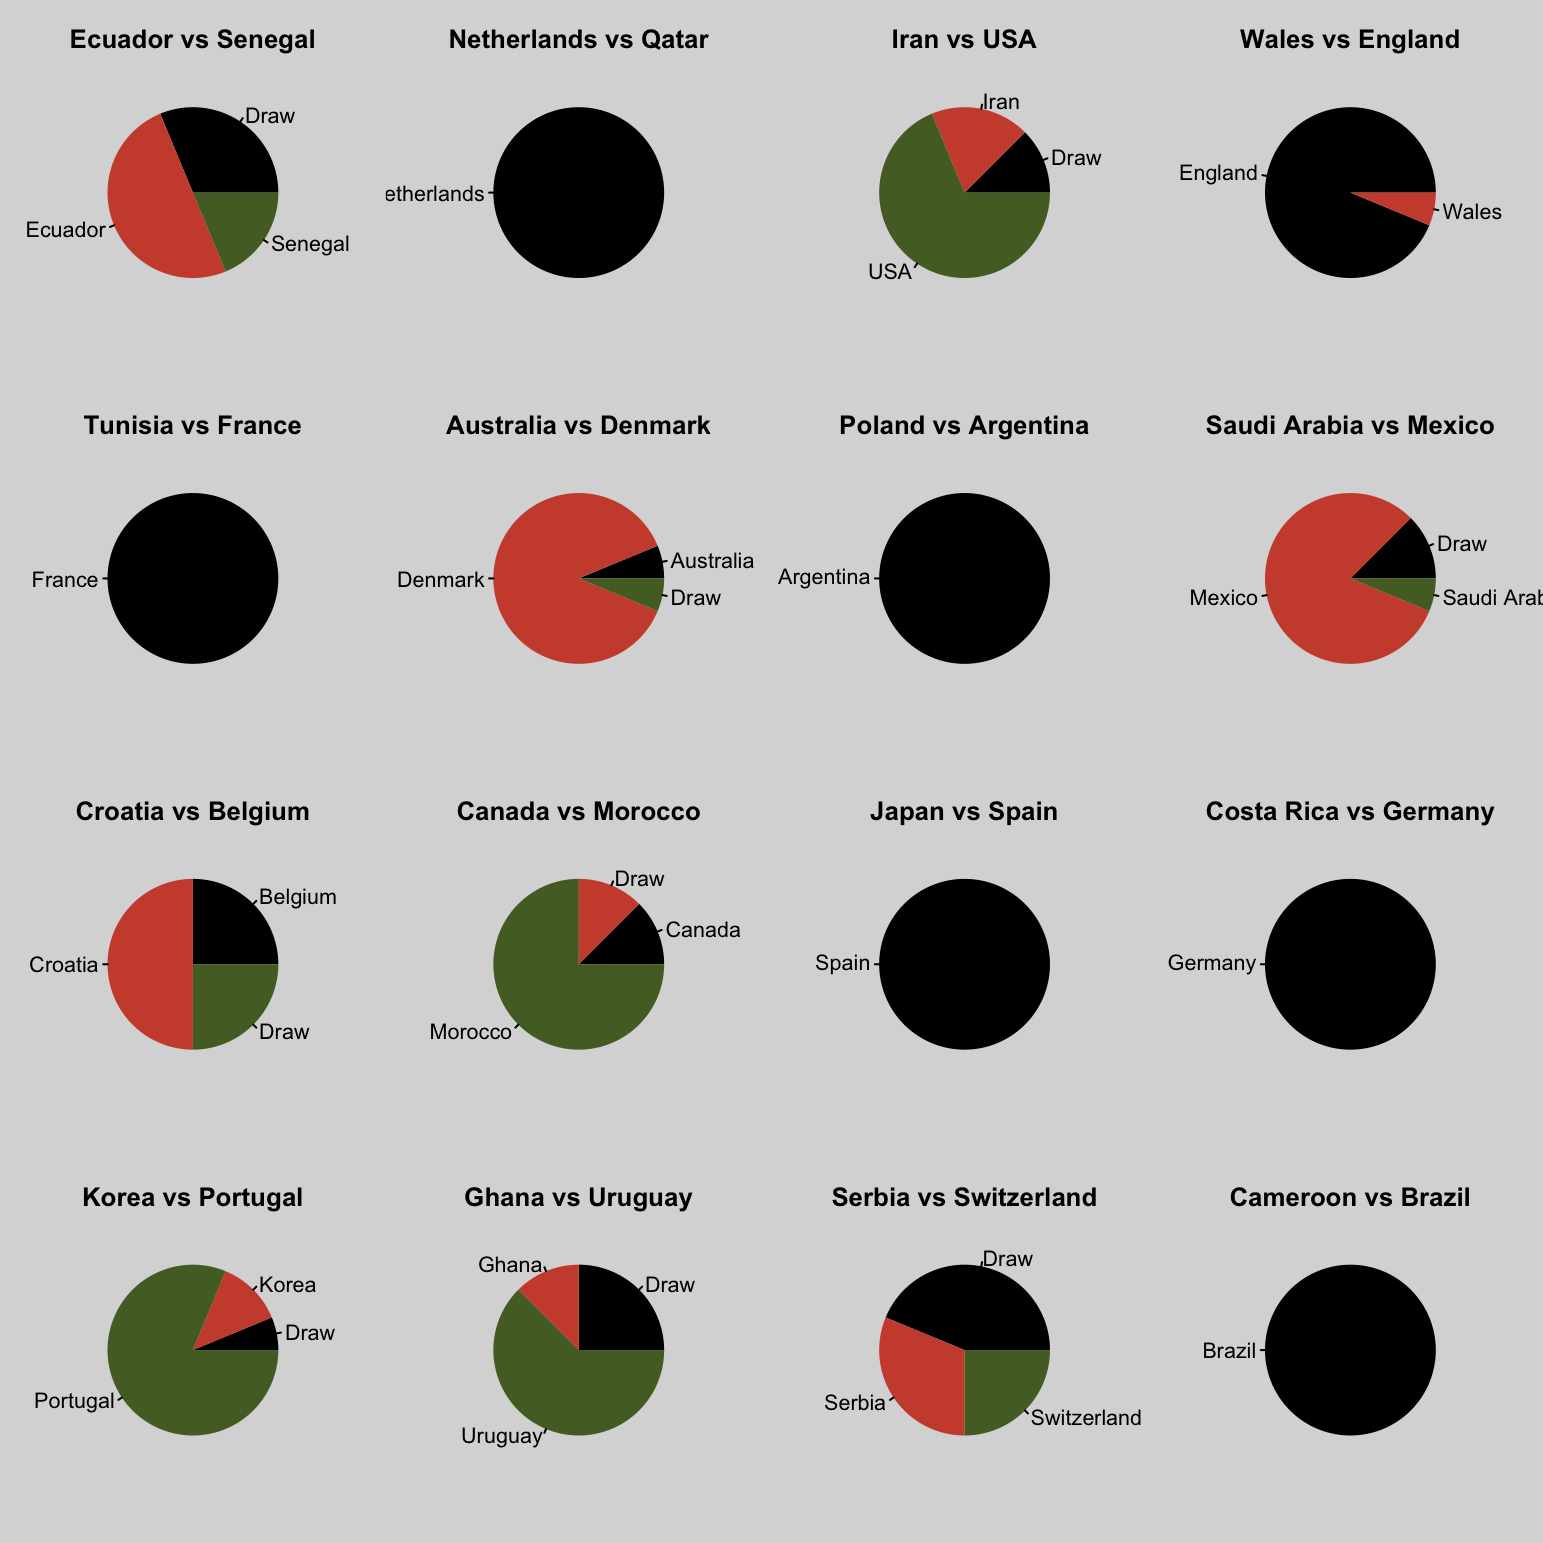
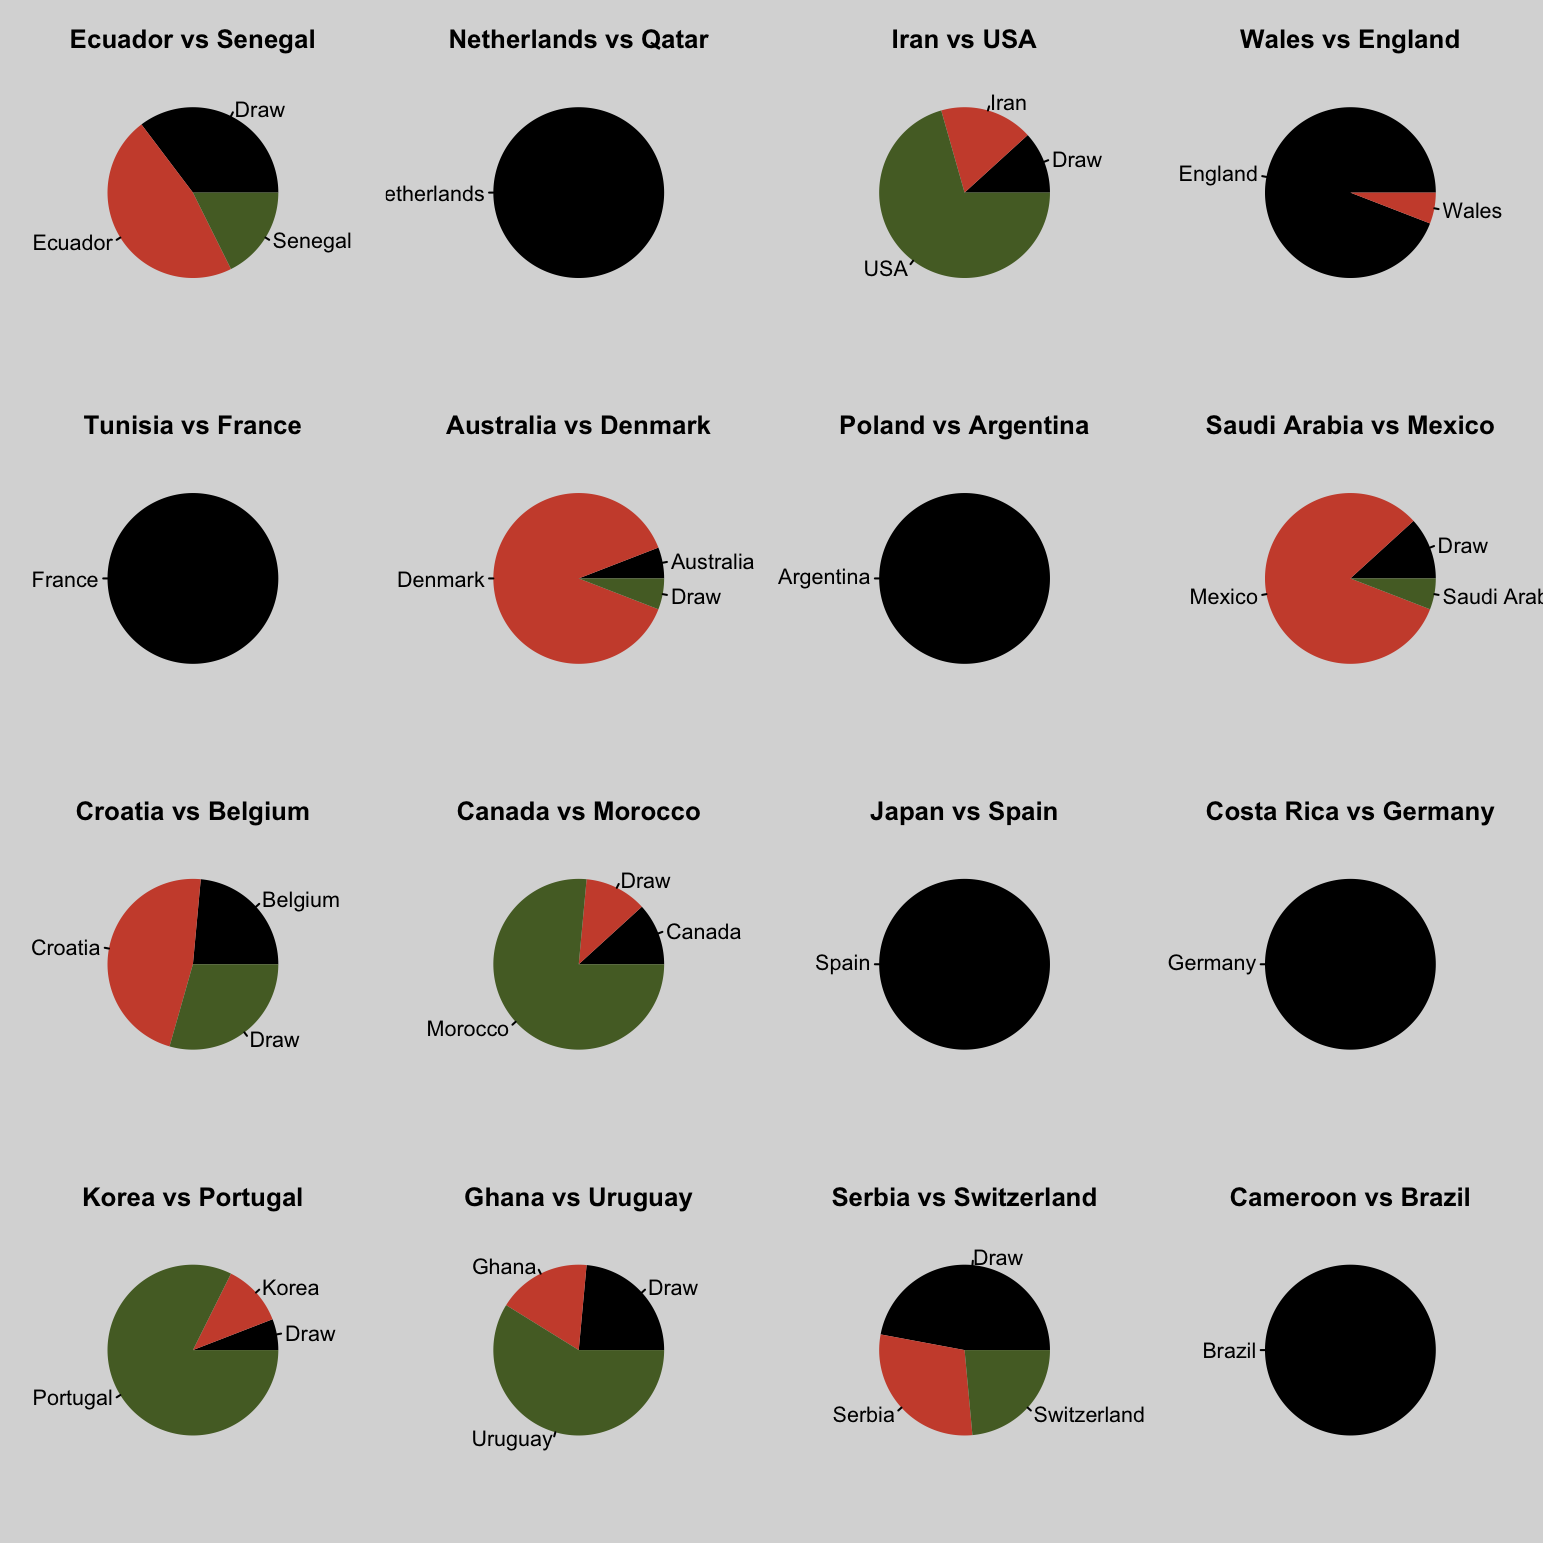
automatic README update

diff --git a/README.md b/README.md
@@ -13,7 +13,7 @@ Este es el repositorio de la quiniela Qatar 2022. Aqui se publicarán las picks 
 
 
 
-Última actualización: Tue 29 Nov 2022 00:07:14 EST.
+Última actualización: Tue 29 Nov 2022 00:57:40 EST.
 
 
 # **Puntuaciones**
@@ -58,6 +58,13 @@ Este es el repositorio de la quiniela Qatar 2022. Aqui se publicarán las picks 
 [Resultados de la Jornada 2](GS2_complete_scores.csv)
  
 --- 
+# **Fase de Grupos**
+
+![](flags/matches/matches.gif)
+
+---
+
+
 
  ## <u>**Picks de la Jornada 3**</u>
  
@@ -69,6 +76,7 @@ Este es el repositorio de la quiniela Qatar 2022. Aqui se publicarán las picks 
 | 003                 | Habib Echanove                | Ecuador            | Netherlands          | Iran        | England          | France            | Denmark              | Argentina           | Mexico                 | Draw               | Morocco           | Spain          | Germany               | Portugal          | Draw             | Draw                  | Brazil             |
 | 005                 | Isra                          | Ecuador            | Netherlands          | USA         | England          | France            | Denmark              | Argentina           | Mexico                 | Croatia            | Morocco           | Spain          | Germany               | Draw              | Ghana            | Switzerland           | Brazil             |
 | 006                 | Juan Carlos Avendaño Aguilar | Ecuador            | Netherlands          | USA         | England          | France            | Denmark              | Argentina           | Mexico                 | Belgium            | Canada            | Spain          | Germany               | Portugal          | Uruguay          | Switzerland           | Brazil             |
+| 007                 | Claudio                       | Draw               | Netherlands          | USA         | England          | France            | Denmark              | Argentina           | Mexico                 | Draw               | Morocco           | Spain          | Germany               | Portugal          | Ghana            | Draw                  | Brazil             |
 | 008                 | Héctor Zepeda Reyes          | Senegal            | Netherlands          | USA         | England          | France            | Denmark              | Argentina           | Mexico                 | Croatia            | Morocco           | Spain          | Germany               | Portugal          | Ghana            | Serbia                | Brazil             |
 | 009                 | Luis Temo Marquez             | Draw               | Netherlands          | USA         | England          | France            | Denmark              | Argentina           | Mexico                 | Croatia            | Morocco           | Spain          | Germany               | Korea             | Uruguay          | Draw                  | Brazil             |
 | 010                 | Fosi                          | Draw               | Netherlands          | USA         | England          | France            | Denmark              | Argentina           | Mexico                 | Belgium            | Canada            | Spain          | Germany               | Portugal          | Uruguay          | Switzerland           | Brazil             |
